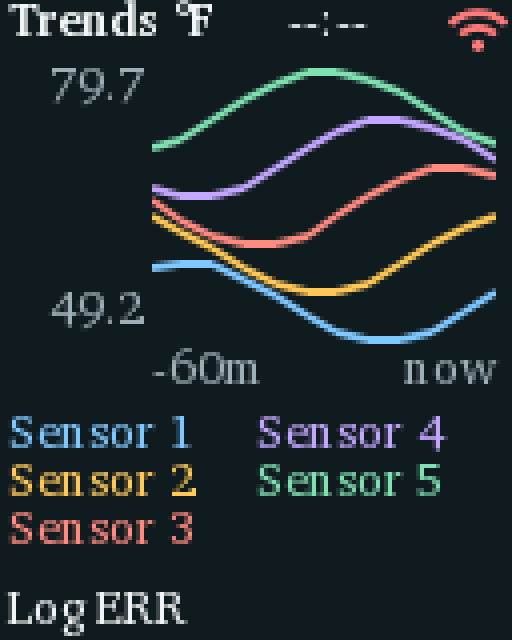
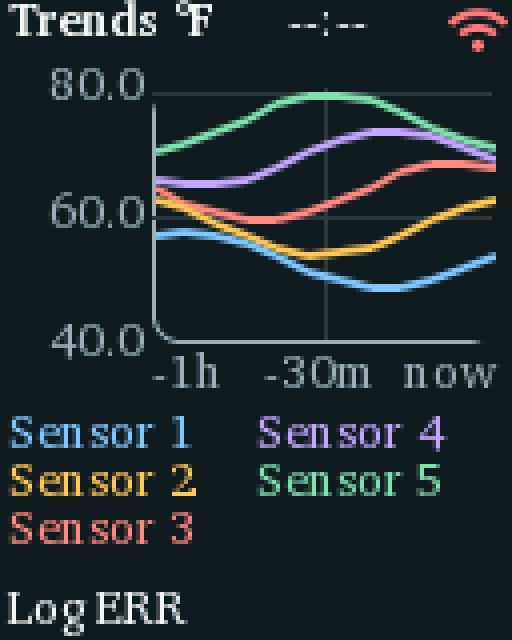
feat(lcd): Trends graph has real axes: round temperature ticks, minimum 2 degree span, time ticks, grid

Changed region(s): [[0.0938, 0.0938, 0.9688, 0.625], [0.0938, 0.0938, 0.2812, 0.1562]]

diff --git a/firmware/components/display_service/display_view.cpp b/firmware/components/display_service/display_view.cpp
@@ -60,6 +60,31 @@ uint32_t color(State state) {
 // mint. They stay distinct on the dark background and are not the alert colours.
 constexpr int legend_top = 103, legend_row = 12; // compact Trends legend: first row, row pitch
 constexpr uint32_t line_colors[max_sensors] = {0x7fc8ff, 0xffc857, 0xff8a80, 0xc3a6ff, 0x7fe0b0};
+// Scale bounds for the compact graph, in hundredths of the displayed unit. The bounds are round
+// numbers (a whole number of steps, an even count so the middle tick is round too), they always
+// contain the data, and they span at least 2 degrees so a steady reading does not look like a
+// steep slope.
+struct Axis {
+    int32_t low, high;
+};
+int32_t floor_div(int32_t a, int32_t b) {
+    return a / b - (a % b != 0 && ((a < 0) != (b < 0)) ? 1 : 0);
+}
+Axis nice_axis(int32_t data_low, int32_t data_high) {
+    const int32_t minimum_span = 200;
+    const int32_t span = std::max(data_high - data_low, minimum_span);
+    const int32_t step = span <= 300 ? 50 : span <= 1000 ? 100 : span <= 3000 ? 500 : 1000;
+    const int32_t middle = (data_low + data_high) / 2;
+    int32_t low = floor_div(middle - span / 2, step) * step;
+    int32_t high = -floor_div(-(middle + span / 2), step) * step;
+    while (low > data_low)
+        low -= step;
+    while (high < data_high)
+        high += step;
+    if (((high - low) / step) % 2)
+        high += step;
+    return {low, high};
+}
 } // namespace
 DisplayView::DisplayView() {
     compact_ = lv_display_get_horizontal_resolution(nullptr) <= 128;
@@ -115,14 +140,23 @@ DisplayView::DisplayView() {
                     chart = s->charts[0];
                 } else {
                     chart = lv_chart_create(s->root);
-                    lv_obj_set_pos(chart, large_trend ? 38 : 12, large_trend ? 16 : top + 21);
-                    lv_obj_set_size(chart, large_trend ? 86 : 141, large_trend ? 70 : 23);
+                    lv_obj_set_pos(chart, large_trend ? 38 : 12, large_trend ? 22 : top + 21);
+                    lv_obj_set_size(chart, large_trend ? 86 : 141, large_trend ? 64 : 23);
                     lv_obj_set_style_bg_opa(chart, LV_OPA_TRANSP, 0);
-                    lv_obj_set_style_border_width(chart, 0, 0);
+                    // Compact: the left and bottom edges are the axes, with faint grid lines.
+                    lv_obj_set_style_border_width(chart, large_trend ? 1 : 0, 0);
+                    if (large_trend) {
+                        lv_obj_set_style_border_side(
+                            chart, lv_border_side_t(LV_BORDER_SIDE_LEFT | LV_BORDER_SIDE_BOTTOM),
+                            0);
+                        lv_obj_set_style_border_color(chart, lv_color_hex(setup_muted), 0);
+                        lv_obj_set_style_line_color(chart, lv_color_hex(0x2c3a40), LV_PART_MAIN);
+                        lv_obj_set_style_line_width(chart, 1, LV_PART_MAIN);
+                    }
                     lv_obj_set_style_pad_all(chart, 0, 0);
                     lv_obj_set_style_size(chart, 0, 0, LV_PART_INDICATOR);
                     lv_obj_set_style_line_width(chart, large_trend ? 2 : 1, LV_PART_ITEMS);
-                    lv_chart_set_div_line_count(chart, 0, 0);
+                    lv_chart_set_div_line_count(chart, large_trend ? 3 : 0, large_trend ? 3 : 0);
                     lv_chart_set_type(chart, LV_CHART_TYPE_LINE);
                     lv_obj_set_scrollable(chart, false);
                     lv_obj_set_clickable(chart, false);
@@ -138,9 +172,12 @@ DisplayView::DisplayView() {
                     lv_label_set_long_mode(s->legend[i], LV_LABEL_LONG_CLIP);
                     lv_obj_set_style_text_color(s->legend[i], lv_color_hex(line_colors[i]), 0);
                     if (i == 0) {
-                        for (auto *axis : {&s->axis_max[0], &s->axis_min[0]}) {
-                            *axis = label(s->root, 0, axis == &s->axis_max[0] ? 16 : 72, 36,
-                                          &font_charter_regular_12);
+                        for (auto *axis : {&s->axis_max[0], &s->axis_mid, &s->axis_min[0]}) {
+                            *axis = label(s->root, 0,
+                                          axis == &s->axis_max[0] ? 16
+                                          : axis == &s->axis_mid  ? 48
+                                                                  : 80,
+                                          36, &font_charter_regular_12);
                             lv_obj_set_style_text_align(*axis, LV_TEXT_ALIGN_RIGHT, 0);
                             lv_obj_set_style_text_color(*axis, lv_color_hex(setup_muted), 0);
                         }
@@ -155,13 +192,15 @@ DisplayView::DisplayView() {
             }
         }
         if (compact && s == &trends_) {
-            s->axis_from = label(s->root, 38, 87, 43, &font_charter_regular_12);
-            s->axis_now = label(s->root, 81, 87, 43, &font_charter_regular_12);
+            s->axis_from = label(s->root, 38, 88, 43, &font_charter_regular_12);
+            s->axis_mid_x = label(s->root, 59, 88, 43, &font_charter_regular_12);
+            s->axis_now = label(s->root, 81, 88, 43, &font_charter_regular_12);
+            lv_obj_set_style_text_align(s->axis_mid_x, LV_TEXT_ALIGN_CENTER, 0);
             // At most three legend rows end at y=139, so the Trends footer sits below them.
             lv_obj_set_y(s->footer, 147);
             lv_obj_set_height(s->footer, 13);
             lv_obj_set_style_text_align(s->axis_now, LV_TEXT_ALIGN_RIGHT, 0);
-            for (auto *axis : {s->axis_from, s->axis_now})
+            for (auto *axis : {s->axis_from, s->axis_mid_x, s->axis_now})
                 lv_obj_set_style_text_color(axis, lv_color_hex(setup_muted), 0);
         }
     }
@@ -345,24 +384,34 @@ void DisplayView::render(const Registry &registry, const TrendCache &cache,
         const bool collecting = low != INT32_MAX && most_points < 2;
         const bool any = low != INT32_MAX && !collecting;
         if (any && (low != trend_low_ || high != trend_high_)) {
-            lv_chart_set_axis_range(trends_.charts[0], LV_CHART_AXIS_PRIMARY_Y, low - 50,
-                                    high + 50);
+            // The labels are the scale's own bounds and middle, not just the data's extremes.
+            const Axis axis = nice_axis(low, high);
+            lv_chart_set_axis_range(trends_.charts[0], LV_CHART_AXIS_PRIMARY_Y, axis.low,
+                                    axis.high);
             char text_buffer[16];
-            std::snprintf(text_buffer, sizeof(text_buffer), "%.1f", high / 100.0);
+            std::snprintf(text_buffer, sizeof(text_buffer), "%.1f", axis.high / 100.0);
             text(trends_.axis_max[0], text_buffer);
-            std::snprintf(text_buffer, sizeof(text_buffer), "%.1f", low / 100.0);
+            std::snprintf(text_buffer, sizeof(text_buffer), "%.1f", (axis.low + axis.high) / 200.0);
+            text(trends_.axis_mid, text_buffer);
+            std::snprintf(text_buffer, sizeof(text_buffer), "%.1f", axis.low / 100.0);
             text(trends_.axis_min[0], text_buffer);
         }
         trend_low_ = low;
         trend_high_ = high;
         lv_obj_set_hidden(trends_.charts[0], !any);
-        for (auto *widget :
-             {trends_.axis_max[0], trends_.axis_min[0], trends_.axis_from, trends_.axis_now})
+        for (auto *widget : {trends_.axis_max[0], trends_.axis_mid, trends_.axis_min[0],
+                             trends_.axis_from, trends_.axis_mid_x, trends_.axis_now})
             lv_obj_set_hidden(widget, !any);
         lv_obj_set_hidden(trends_.no_data[0], any);
         text(trends_.no_data[0], collecting ? "COLLECTING DATA" : "NO DATA");
         text(trends_.title, options.fahrenheit ? "Trends °F" : "Trends °C");
-        text(trends_.axis_from, "-" + std::to_string(options.lookback_minutes) + "m");
+        // Whole hours read better and are shorter ("-1h" instead of "-60m").
+        auto ago = [](unsigned minutes) {
+            return minutes >= 60 && minutes % 60 == 0 ? "-" + std::to_string(minutes / 60) + "h"
+                                                      : "-" + std::to_string(minutes) + "m";
+        };
+        text(trends_.axis_from, ago(options.lookback_minutes));
+        text(trends_.axis_mid_x, ago(options.lookback_minutes / 2));
         text(trends_.axis_now, "now");
     }
     cache_window_ = now / bucket_ms;

diff --git a/firmware/display_tests/display_tests.cpp b/firmware/display_tests/display_tests.cpp
@@ -478,7 +478,7 @@ int main(int argc, char **argv) {
         }
         lv_obj_update_layout(lv_screen_active());
         auto *first_chart = view.trends_chart(0);
-        CHECK(lv_obj_get_width(first_chart) == 86 && lv_obj_get_height(first_chart) == 70);
+        CHECK(lv_obj_get_width(first_chart) == 86 && lv_obj_get_height(first_chart) == 64);
         {
             // Fonts by role: serif (Charter) for every piece of text on the Overview and Trends
             // screens; the Wi-Fi icon is a symbol and stays in Montserrat.
@@ -494,7 +494,7 @@ int main(int argc, char **argv) {
             // The compact graph says what it shows: the unit, the highest and lowest value, and
             // the time span.
             const auto text = visible_text(lv_screen_active());
-            for (const char *expected : {"Trends °F", "-60m", "now"})
+            for (const char *expected : {"Trends °F", "-1h", "-30m", "now"})
                 CHECK(text.find(expected) != std::string::npos);
             CHECK(!lv_obj_is_hidden(view.trends_axis_max(0)));
         }
@@ -527,6 +527,18 @@ int main(int argc, char **argv) {
             lv_refr_now(display);
             save("trends-compact-five-lines");
             {
+                // A real axis: the scale's top, middle and bottom, in order, containing the data
+                // (the fixture spans about 49.1 to 79.6 F) with a round middle.
+                auto number = [](lv_obj_t *obj) { return std::atof(lv_label_get_text(obj)); };
+                const double top = number(view.trends_axis_max(0));
+                const double mid = number(view.trends_axis_mid());
+                const double bottom = number(view.trends_axis_min());
+                CHECK(top > mid && mid > bottom);
+                CHECK(top >= 79.6 && bottom <= 49.1);
+                CHECK(std::fabs(mid - (top + bottom) / 2) < 0.06);
+                CHECK(!lv_obj_is_hidden(view.trends_axis_mid()));
+            }
+            {
                 // One full bucket is one point: no line, so no chart and no scale (it would show
                 // the same value as both highest and lowest); the screen says it is collecting.
                 TrendCache one_point;
@@ -556,6 +568,12 @@ int main(int argc, char **argv) {
                 CHECK(!lv_obj_is_hidden(view.trends_chart(0)));
                 CHECK(!lv_obj_is_hidden(view.trends_axis_max(0)));
                 CHECK(lv_obj_is_hidden(view.trends_no_data()));
+                // A steady reading (71.0 to 71.6 F) still gets a scale at least 2 degrees tall.
+                const double span = std::atof(lv_label_get_text(view.trends_axis_max(0))) -
+                                    std::atof(lv_label_get_text(view.trends_axis_min()));
+                CHECK(span >= 2.0);
+                CHECK(std::atof(lv_label_get_text(view.trends_axis_min())) <= 71.0 &&
+                      std::atof(lv_label_get_text(view.trends_axis_max(0))) >= 71.6);
             }
             {
                 // The same balance for four probes (2 + 2), three (2 + 1) and one.

diff --git a/firmware/components/display_service/include/display_view.hpp b/firmware/components/display_service/include/display_view.hpp
@@ -43,6 +43,12 @@ class DisplayView {
     lv_obj_t *trends_value(size_t sensor) const {
         return trends_.values[sensor];
     }
+    lv_obj_t *trends_axis_mid() const {
+        return trends_.axis_mid;
+    }
+    lv_obj_t *trends_axis_min() const {
+        return trends_.axis_min[0];
+    }
     lv_obj_t *trends_axis_max(size_t sensor) const {
         return trends_.axis_max[sensor];
     }
@@ -56,7 +62,8 @@ class DisplayView {
         // Compact screens: Wi-Fi state as an icon beside the time (colour tells the state).
         lv_obj_t *wifi = nullptr;
         // Compact Trends only: highest and lowest value on each chart, and the time axis ends.
-        lv_obj_t *axis_from = nullptr, *axis_now = nullptr;
+        lv_obj_t *axis_from = nullptr, *axis_mid_x = nullptr, *axis_now = nullptr,
+                 *axis_mid = nullptr;
         std::array<lv_obj_t *, 5> axis_max{}, axis_min{}, legend{};
         std::array<lv_obj_t *, max_sensors> labels{}, values{}, alts{}, states{}, charts{};
         std::array<lv_obj_t *, max_sensors> no_data{};

diff --git a/docs/USER_GUIDE.md b/docs/USER_GUIDE.md
@@ -72,12 +72,15 @@ and 10-second Trends dwell; both are independently adjustable. The lookback
 controls the LCD trend display. Sensor labels, order, enable state, calibration,
 and alarms are edited on the Sensors page.
 
-On the compact 1.8-inch LCD, Trends draws every probe as a line of its own colour on one graph
-with a shared scale: the highest and lowest value are printed at the left, the time span
-(`-60m` to `now`, following the lookback setting) under it, and the unit in the title. Under the
-graph a legend in two balanced columns, each name in its line's colour (sky blue, amber, coral, lilac, mint, in probe order; the first half of the probes on the left, the rest on the right),. A probe with
-no history yet is still listed in its colour but has no line. With only the Overview and Trends screens, nothing
-rotates any more.
+On the compact 1.8-inch LCD, Trends draws every probe as a line of its own colour on one graph.
+The graph has real axes. The temperature axis (left) has round tick values at the top, middle and
+bottom, in the unit shown in the title; the scale always covers at least 2 degrees, so a steady room
+reads as a nearly flat line, and it contains all of the data. The time axis (bottom) runs from the
+lookback (for example `-1h`) through the half-way point to `now`. Under the graph a legend in two
+balanced columns names each probe in its line's colour (sky blue, amber, coral, lilac, mint, in
+probe order; the first half of the probes on the left, the rest on the right). A probe with no
+history yet is still listed in its colour but has no line. With only the Overview and Trends
+screens, nothing rotates.
 
 New devices default to the `America/Los_Angeles` timezone, including daylight
 saving changes. You can choose another timezone in Settings. Existing saved
